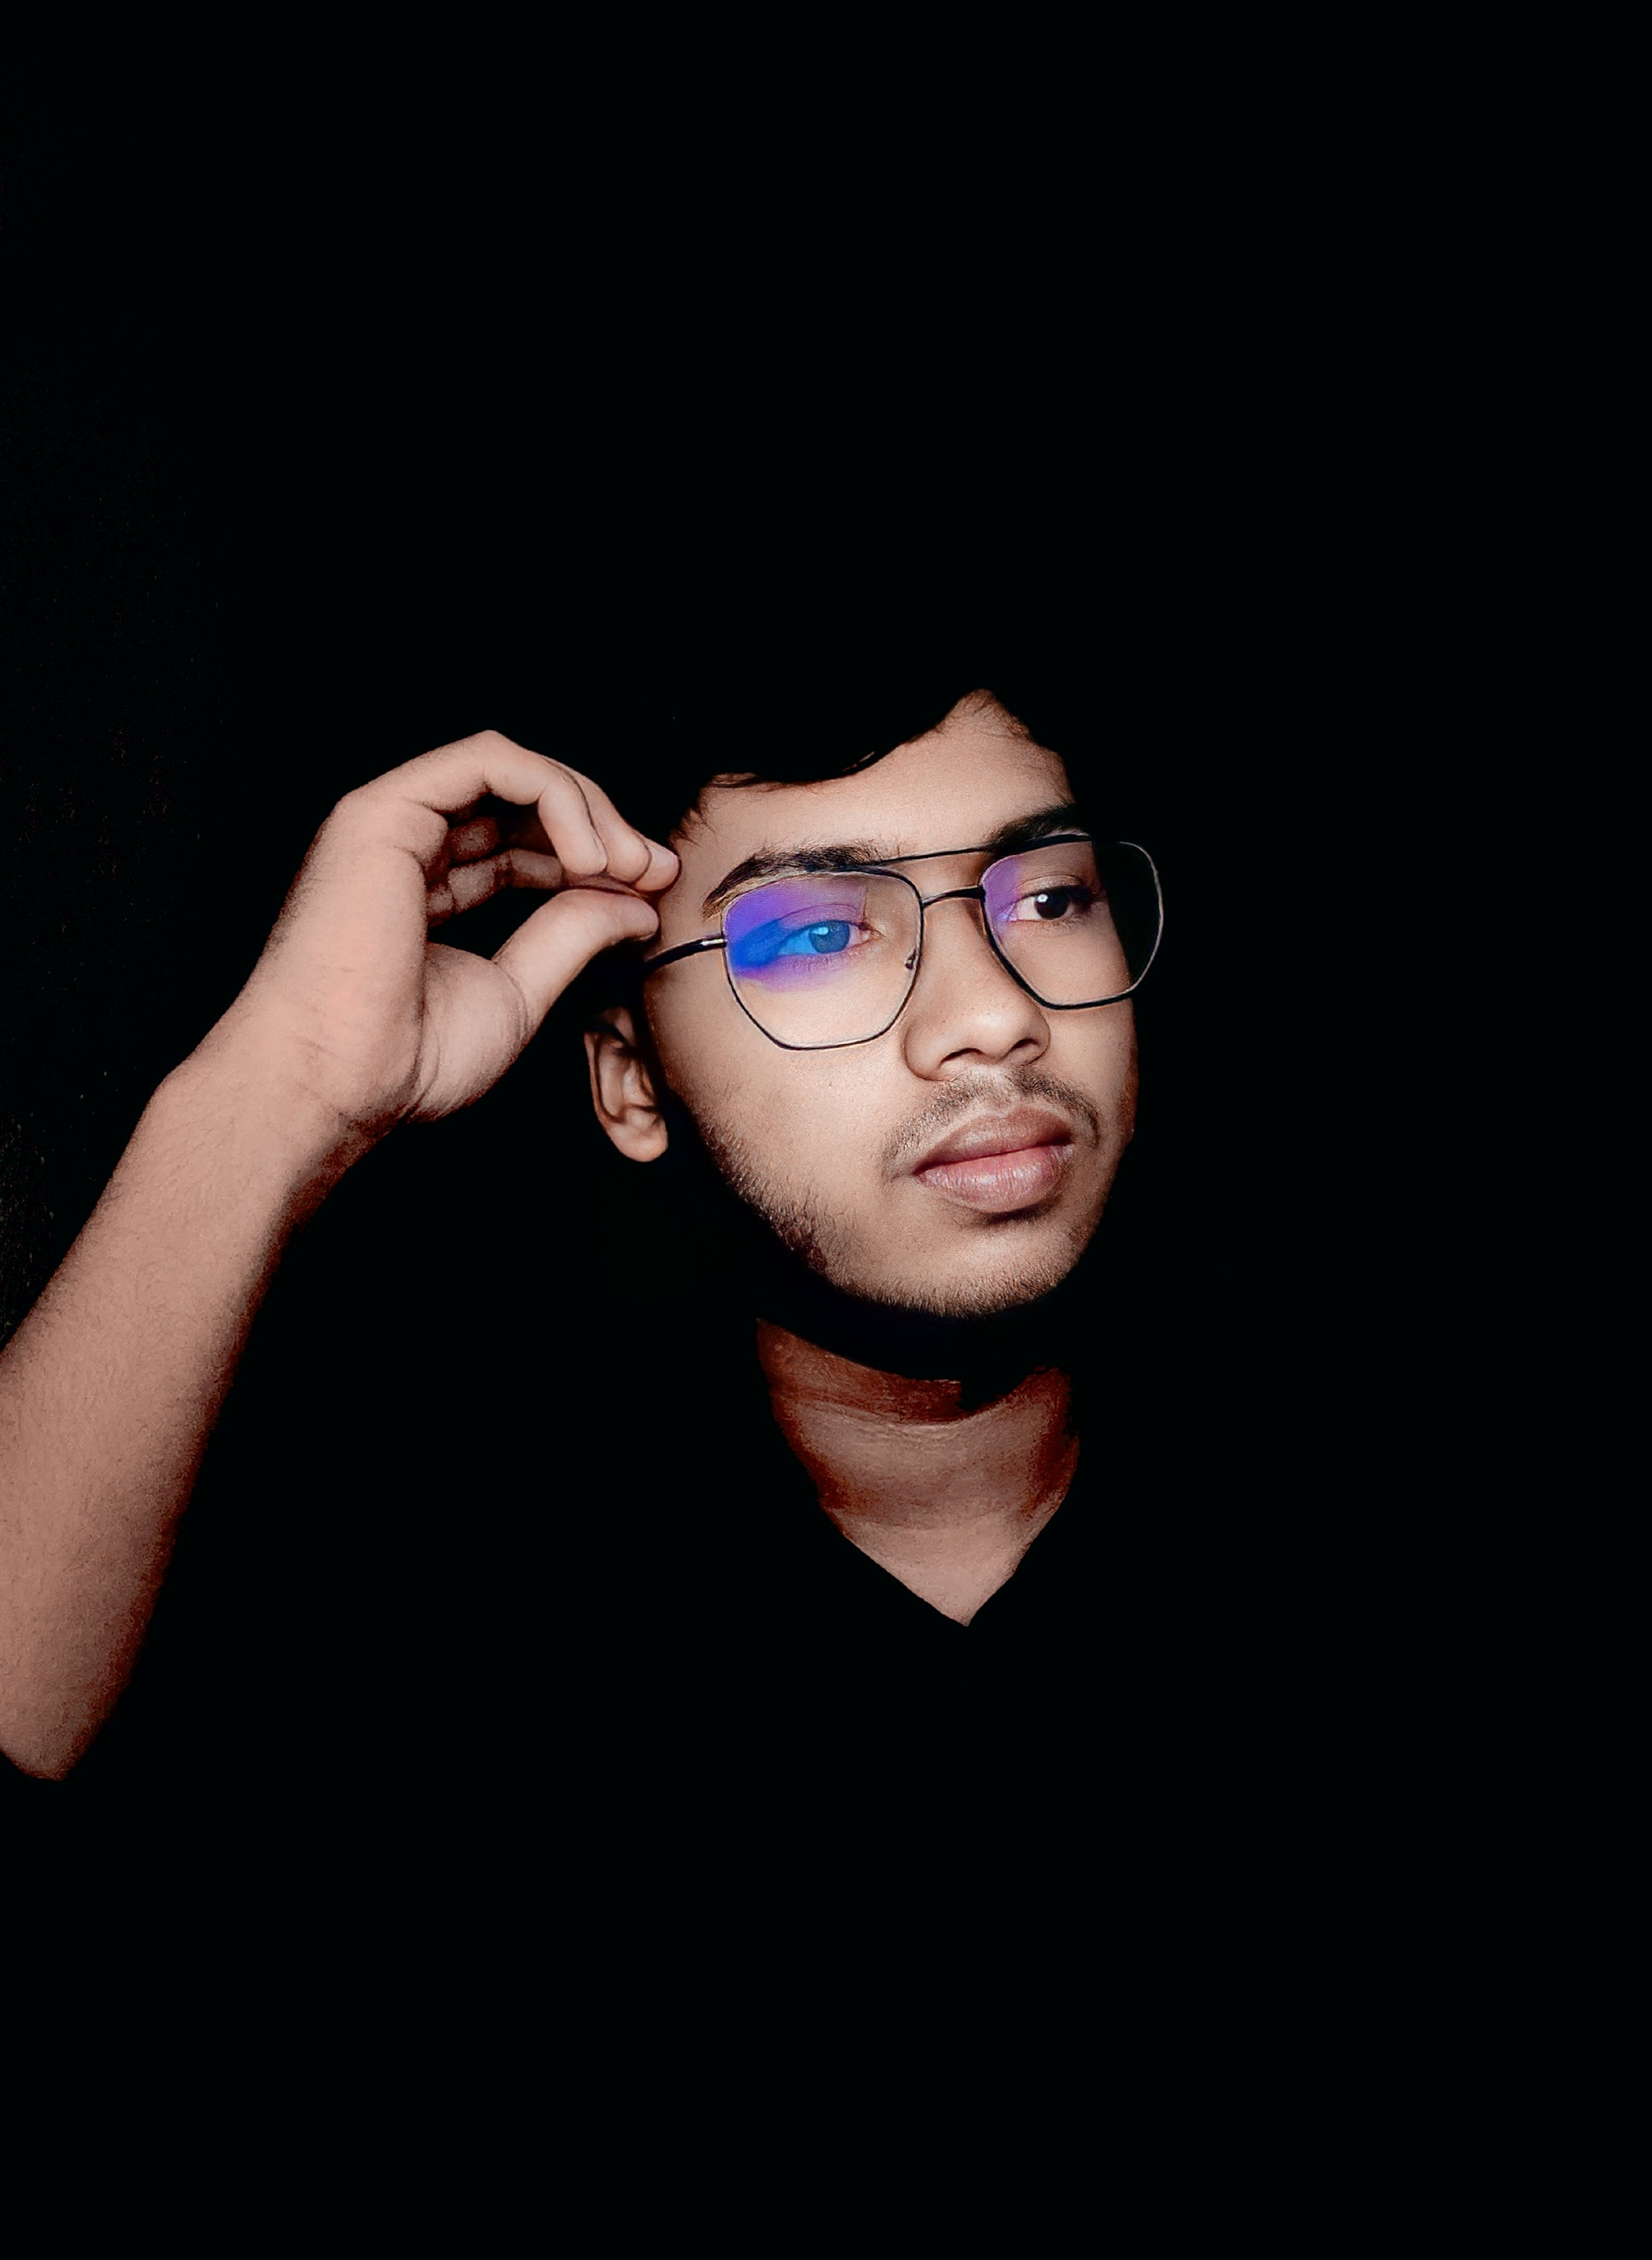
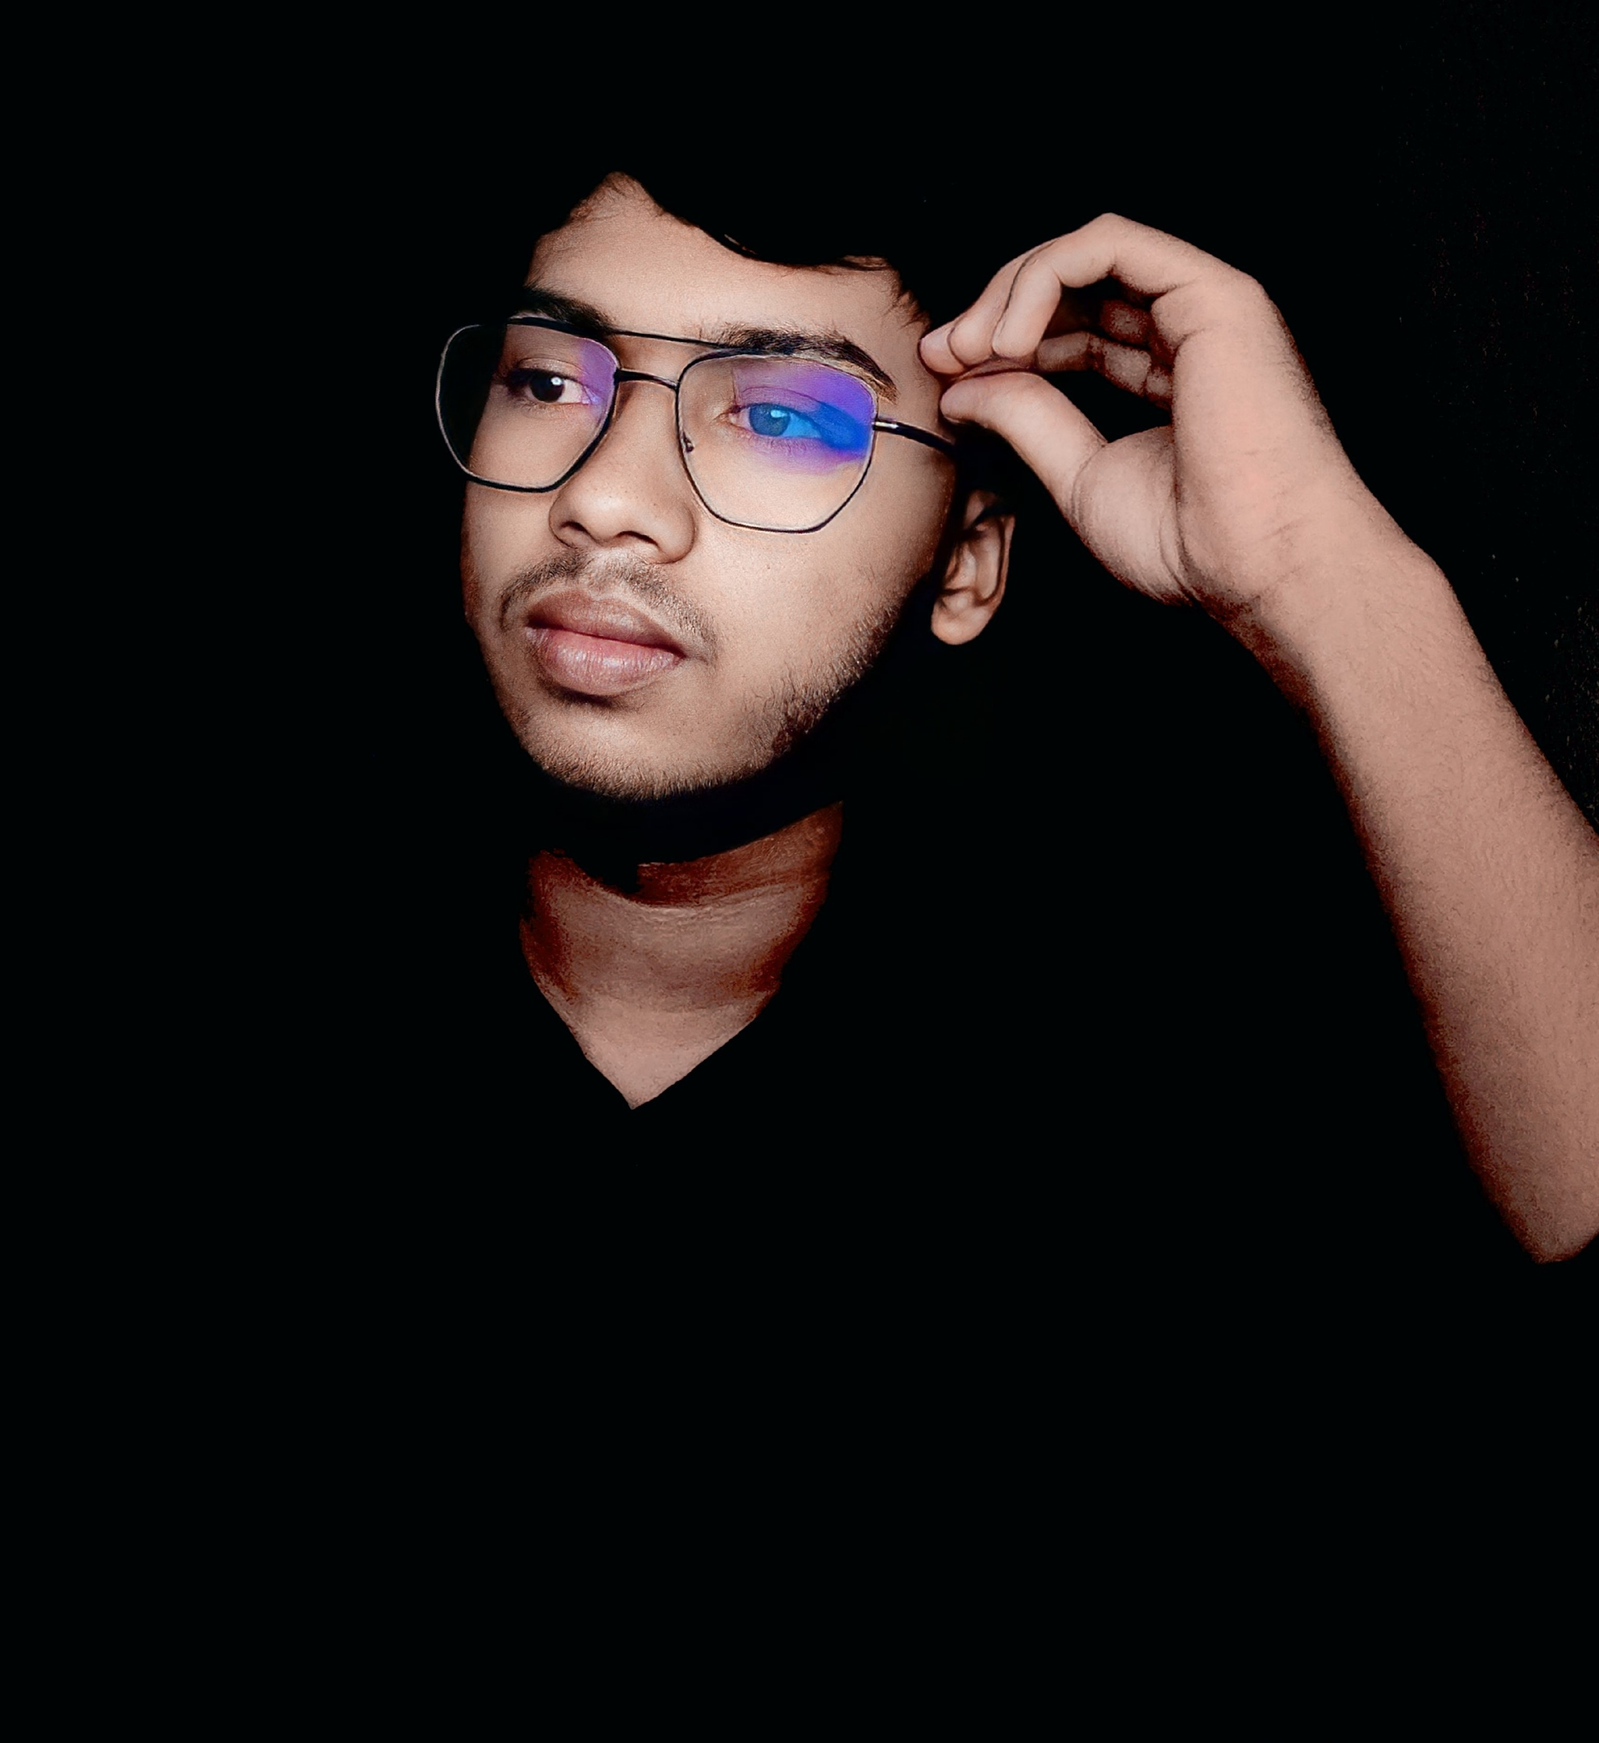
added all

Changed region(s): [[0.0, 0.0931, 1.0, 0.8072], [0.9993, 0.3725, 1.0, 0.4346]]

diff --git a/index.html b/index.html
@@ -41,14 +41,14 @@
          <div class="social-media">
             <a href="https://www.facebook.com/profile.php?id=100091512847212"><i class='bx bxl-facebook'></i></a>
             <a href="#"><i class='bx bxl-twitter'></i></a>
-            <a href="#"><i class='bx bxl-instagram-alt'></i></a>
+            <a href="https://www.instagram.com/iamtareqmahmud37/?hl=en"><i class='bx bxl-instagram-alt'></i></a>
             <a href="#"><i class='bx bxl-linkedin'></i></a>
          </div>
          <a href="#" class="btn">Downlode CV</a>
       </div>
 
       <div class="home-img">
-         <img src="IMG-20220626-WA0002_prev_ui.png" alt="">
+         <img src="IMG_20230412_204410.jpg" alt="">
       </div>
    </section>
 

diff --git a/styal.css b/styal.css
@@ -512,4 +512,3 @@ span {
         margin-top: 2rem;
     }
 }
-
